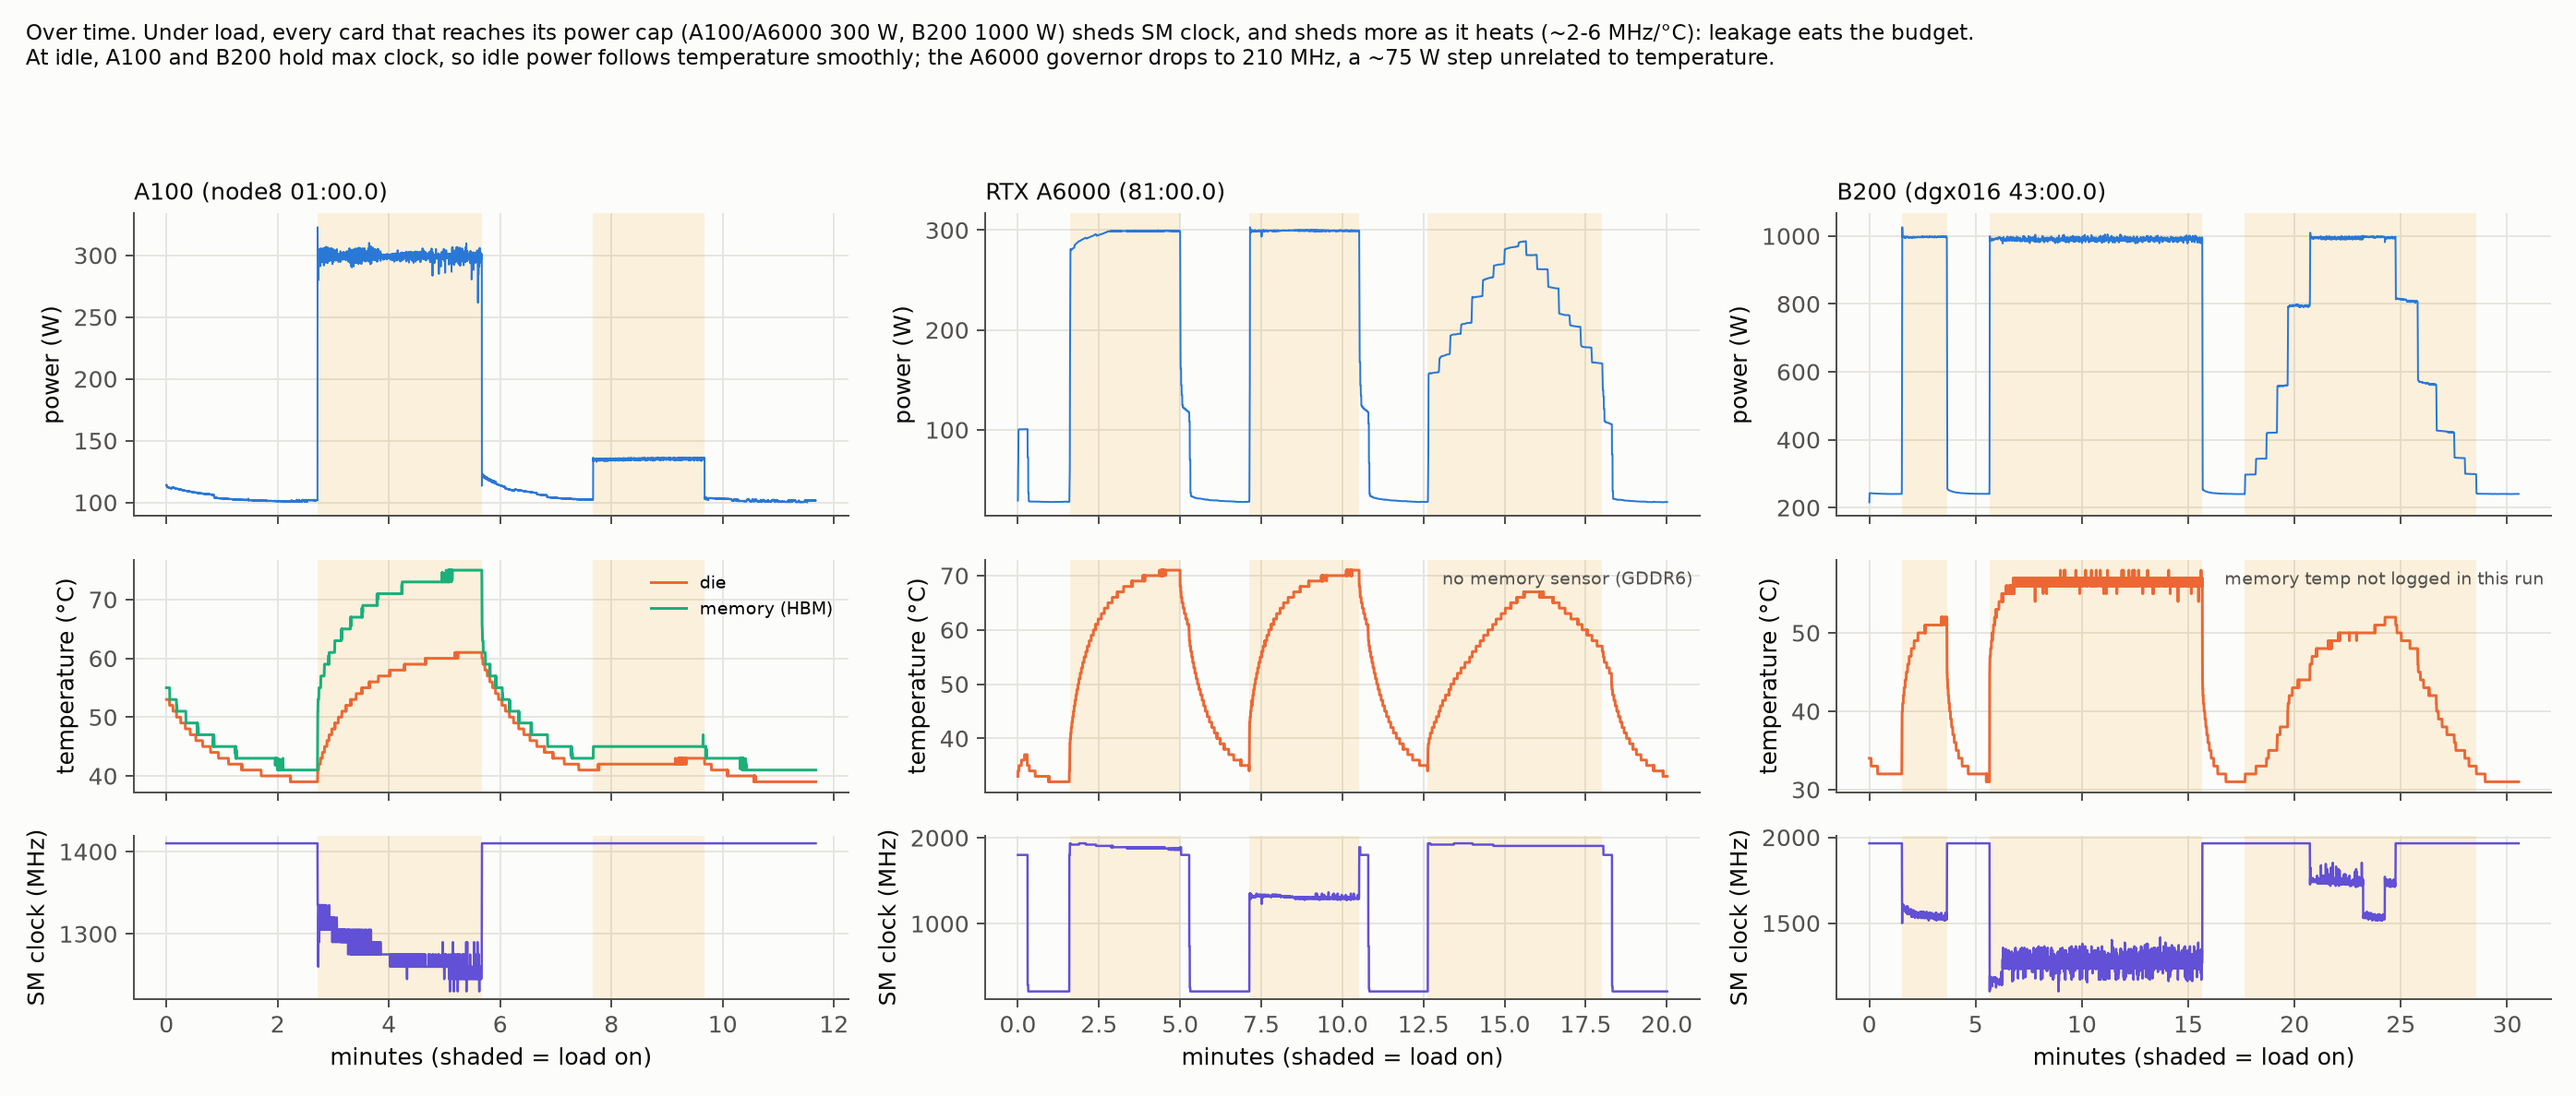
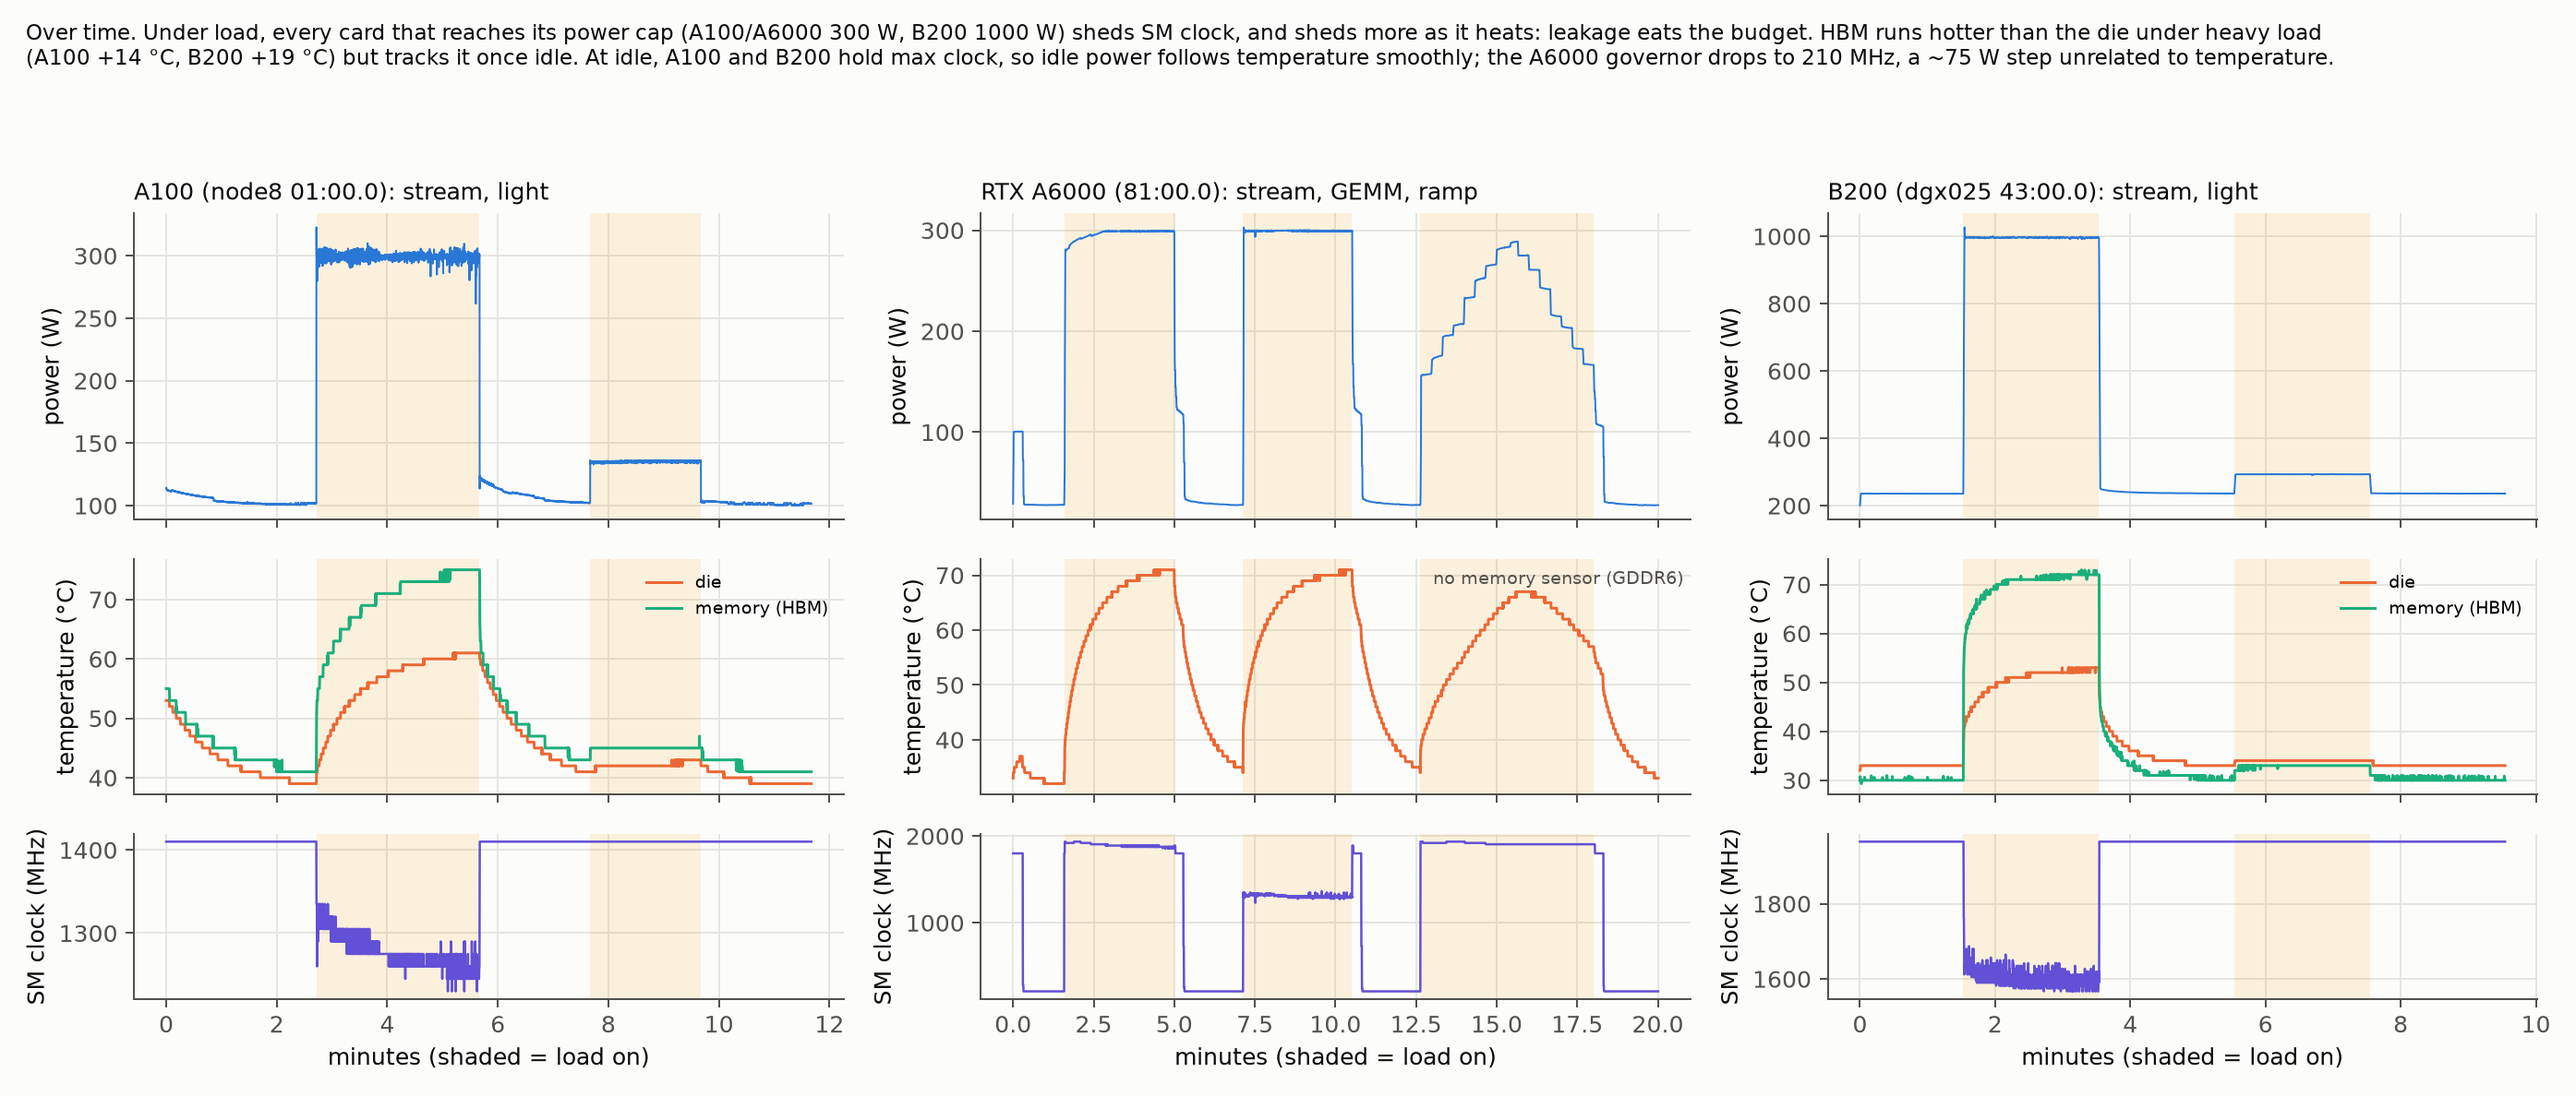
fig_thermal_time: B200 column from the matched history run (stream, light) with HBM temperature

diff --git a/GPU_power/talk_figs/fig_thermal_detail.py b/GPU_power/talk_figs/fig_thermal_detail.py
@@ -164,9 +164,11 @@ def main():
     fig.tight_layout(rect=(0, 0.08, 1, 0.95))
     fig.savefig(os.path.join(HERE, "fig_idle_history.png"), dpi=180, facecolor=SURF)
 
-    # ---- fig C: over time, A100 vs A6000 vs B200 (the B200 run predates memory-temperature logging)
-    runs = [("A100_hist1", "A100 (node8 01:00.0)"), ("A6000_run2", "RTX A6000 (81:00.0)"),
-            ("B200", "B200 (dgx016 43:00.0)")]
+    # ---- fig C: over time. A100 and B200 ran the same sequence (stream, then light stream);
+    # the A6000 has no history run, so its column is stream, GEMM, ramp
+    runs = [("A100_hist1", "A100 (node8 01:00.0): stream, light"),
+            ("A6000_run2", "RTX A6000 (81:00.0): stream, GEMM, ramp"),
+            ("B200_hist1", "B200 (dgx025 43:00.0): stream, light")]
     fig, ax = plt.subplots(3, len(runs), figsize=(15.5, 6.6), facecolor=SURF, sharex="col",
                            gridspec_kw=dict(height_ratios=[1.3, 1, 0.7]))
     for j, (tag, lab) in enumerate(runs):
@@ -193,9 +195,9 @@ def main():
         if np.isfinite(S["mem_c"]).any():
             ax[1, j].legend(frameon=False, fontsize=7.5, loc="upper right")
     fig.suptitle("Over time. Under load, every card that reaches its power cap (A100/A6000 300 W, B200 1000 W) sheds SM clock, "
-                 "and sheds more as it heats (~2-6 MHz/°C): leakage eats the budget.\nAt idle, A100 and B200 hold max clock, "
-                 "so idle power follows temperature smoothly; the A6000 governor drops to 210 MHz, a ~75 W step unrelated "
-                 "to temperature.",
+                 "and sheds more as it heats: leakage eats the budget. HBM runs hotter than the die under heavy load\n"
+                 "(A100 +14 °C, B200 +19 °C) but tracks it once idle. At idle, A100 and B200 hold max clock, so idle power "
+                 "follows temperature smoothly; the A6000 governor drops to 210 MHz, a ~75 W step unrelated to temperature.",
                  x=0.01, ha="left", fontsize=9, color=INK)
     fig.tight_layout(rect=(0, 0, 1, 0.93))
     fig.savefig(os.path.join(HERE, "fig_thermal_time.png"), dpi=180, facecolor=SURF)
